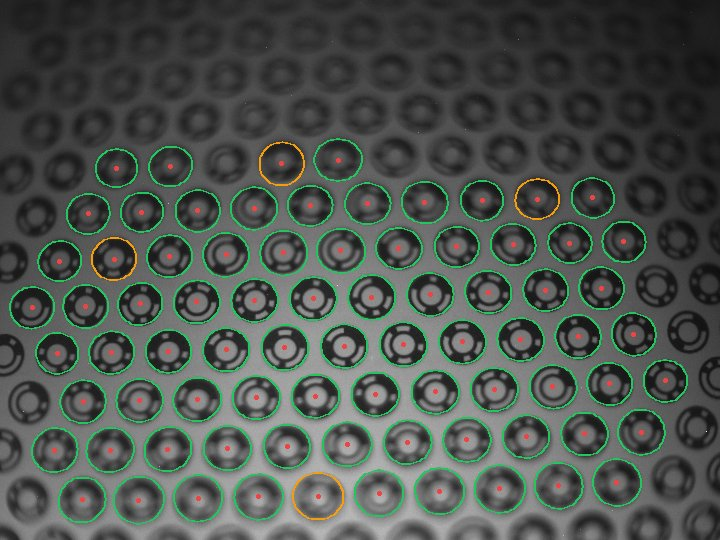
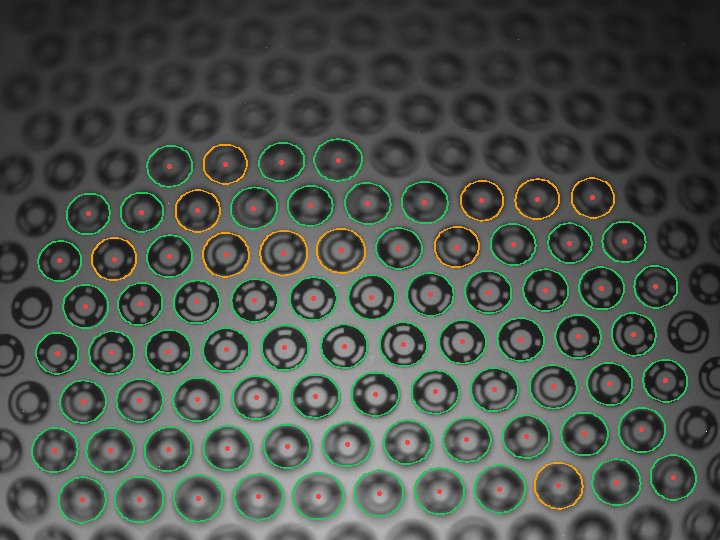
perf(proposal): radsym 0.4.1 (blur + unsafe-opt); re-measure; codex fixes
radsym 0.4.1 vectorizes the separable Gaussian blur — the dominant proposal-stage
cost — and adds an opt-in `unsafe-opt` bounds-check elision for the voting scatter
loops. Both are bit-identical output, so detection accuracy is unchanged while the
`proposal_*` micro-benchmarks drop ~23%. `unsafe-opt` is enabled at the workspace
dependency (release builds get the win; debug/test builds keep the bounds asserts).

Evaluated radsym 0.4.1's new `thin_gradient` (gradient-direction NMS): a controlled
criterion A/B (same thermal state, p<0.05) shows it is a net ~14% proposal-stage
*regression* on the fused-RSD path — the single shared blur already removed the
pixel-count bottleneck thinning targeted — with no accuracy gain, so it is
deliberately not enabled (documented in proposal/mod.rs and the edge-thinning doc).

Re-measured every performance figure (live dashboard + analysis/handoff docs) on the
0.4.1 backend. Regression gate passes unchanged: reference/distortion/blur3/rect all
within baselines, maintainability OK.

Tooling + docs staleness sweep:
- Fix tools/gen_pages_perf.py: wire the real-capture target and use the ringgrid-dev
  binary that actually carries `detect`/`bench` (the published `ringgrid` dropped them).
- Fix CLI drift in docs/comments: `gen-target`, `bench`, `--calibration`,
  `--circle-refine-method`, `--marker-diameter-min/-max` belong to `ringgrid-dev`, not
  the published `ringgrid`; replace the nonexistent `--no-refine` with
[…]

diff --git a/.github/pages/performance/index.html b/.github/pages/performance/index.html
@@ -83,7 +83,7 @@
   <div class="chips" id="chips"></div>
 
   <h2>Per-image stage breakdown</h2>
-  <div class="desc">Per-stage median wall-clock from <code>ringgrid bench</code>, which runs the <b>complete</b>
+  <div class="desc">Per-stage median wall-clock from <code>ringgrid-dev bench</code>, which runs the <b>complete</b>
     single-pass detector on each public image. Proposal scales with image area; fit + decode scales with marker
     count; finalize covers the board-level reasoning — homography RANSAC, hex-neighbor ID consensus, and completion
     of markers missing from the first pass.</div>

diff --git a/tools/gen_pages_perf.py b/tools/gen_pages_perf.py
@@ -6,10 +6,10 @@ This is the *performance test* behind the GitHub Pages performance dashboard
 **varied** scenes — a real capture, a sparse and a dense coded hex board, and a
 plain rect board — it measures:
 
-  * **Detection result + overlay** — one ``ringgrid detect`` run per scene
+  * **Detection result + overlay** — one ``ringgrid-dev detect`` run per scene
     supplies the marker count and a rendered detection overlay (so the page
     shows *what was actually detected*, not just the input).
-  * **Timing** — the ``ringgrid bench`` subcommand: single-pass detection with
+  * **Timing** — the ``ringgrid-dev bench`` subcommand: single-pass detection with
     warmup + repeats, median per stage (proposal / fit+decode / finalize) and
     end-to-end wall-clock.
   * **Accuracy** — the synthetic reference benchmark
@@ -40,7 +40,7 @@ from PIL import Image, ImageDraw
 REPO_ROOT = Path(__file__).resolve().parent.parent
 DEFAULT_OUT = REPO_ROOT / ".github/pages/performance/data.json"
 DEFAULT_IMG_DIR = REPO_ROOT / ".github/pages/performance/img"
-RELEASE_BIN = REPO_ROOT / "target/release/ringgrid"
+RELEASE_BIN = REPO_ROOT / "target/release/ringgrid-dev"
 REFERENCE_OUT_DIR = REPO_ROOT / "tools/out/reference_benchmark_post_pipeline"
 SCENES_DIR = REPO_ROOT / "tools/out/perf_scenes"
 PYTHON = sys.executable
@@ -57,7 +57,7 @@ SCENES = [
         "label": "Coded hex — real capture",
         "kind": "real",
         "image": "testdata/target_3_split_00.png",
-        "target": None,
+        "target": "testdata/board_ringgrid.json",
         "marker_diameter": None,
         "gen": None,
         "note": "Dense hex lattice photographed in the lab; decoded to absolute IDs.",
@@ -140,7 +140,8 @@ def today() -> str:
 def generate_scene(scene: dict, reuse: bool) -> tuple[Path, Path | None]:
     """Return (image_path, target_spec_path) for a scene, generating if needed."""
     if scene["gen"] is None:
-        return REPO_ROOT / scene["image"], None
+        target = REPO_ROOT / scene["target"] if scene.get("target") else None
+        return REPO_ROOT / scene["image"], target
 
     kind, params = scene["gen"]
     out_dir = SCENES_DIR / scene["key"]

diff --git a/crates/ringgrid/src/proposal/mod.rs b/crates/ringgrid/src/proposal/mod.rs
@@ -141,6 +141,13 @@ fn compute_via_radsym(
         }
     };
 
+    // Note: radsym 0.4.1 offers `thin_gradient` (Canny-style gradient-direction
+    // NMS before voting). Measured on this fused-RSD path it is a net ~14 %
+    // proposal-stage *regression* with no accuracy gain — the fused single-blur
+    // voting is no longer pixel-count-dominated, so the extra full-image thinning
+    // pass costs more than the voting pixels it removes. Deliberately not used;
+    // see docs/radsym-edge-thinning-request.md for the A/B evidence.
+
     // Translate relative gradient threshold to absolute
     let max_mag = gradient.max_magnitude();
     if max_mag < 1e-6 {

diff --git a/crates/ringgrid-cli/src/main.rs b/crates/ringgrid-cli/src/main.rs
@@ -316,8 +316,8 @@ struct CliGenFromSpecArgs {
 
 #[derive(Debug, Clone, Args)]
 struct CliDetectArgs {
-    /// Path to a board layout JSON file (target specification).
-    /// When omitted, uses the built-in default board layout.
+    /// Path to a target-layout JSON file (`TargetLayout` specification).
+    /// When omitted, uses the built-in default target layout.
     #[arg(long)]
     target: Option<PathBuf>,
 
@@ -1545,7 +1545,7 @@ fn run_bench(args: &CliBenchArgs) -> CliResult<()> {
 
     let report = BenchReport {
         repeats,
-        source: format!("ringgrid bench --repeats {repeats}"),
+        source: format!("ringgrid-dev bench --repeats {repeats}"),
         images,
     };
     let json = serde_json::to_string_pretty(&report)?;

diff --git a/tools/run_rtv3d_eval.py b/tools/run_rtv3d_eval.py
@@ -77,8 +77,8 @@ def parse_args() -> argparse.Namespace:
     p = argparse.ArgumentParser(description=__doc__, formatter_class=argparse.RawDescriptionHelpFormatter)
     p.add_argument("--data-dir", type=Path, default=Path("data/rtv3d"),
                    help="Directory containing rtv3d strip images (default: data/rtv3d)")
-    p.add_argument("--binary", type=Path, default=Path("target/release/ringgrid"),
-                   help="Path to ringgrid CLI binary (default: target/release/ringgrid)")
+    p.add_argument("--binary", type=Path, default=Path("target/release/ringgrid-dev"),
+                   help="Path to ringgrid CLI binary (default: target/release/ringgrid-dev)")
     p.add_argument("--target", type=Path, default=None,
                    help="Board layout JSON (optional, uses built-in default when omitted)")
     p.add_argument("--out", type=Path, default=Path("tools/out/rtv3d_eval"),

diff --git a/tools/run_reference_benchmark.py b/tools/run_reference_benchmark.py
@@ -85,7 +85,7 @@ def render_summary(summary_modes: dict[str, dict], summary_path: Path) -> None:
 
 
 def find_ringgrid_binary() -> str | None:
-    for candidate in ("target/release/ringgrid", "target/debug/ringgrid"):
+    for candidate in ("target/release/ringgrid-dev", "target/debug/ringgrid-dev", "target/release/ringgrid", "target/debug/ringgrid"):
         if os.path.isfile(candidate):
             return candidate
     return None

diff --git a/tools/run_synth_eval.py b/tools/run_synth_eval.py
@@ -48,6 +48,8 @@ def camera_cli_args_from_gt(gt_data: dict) -> list[str]:
 def find_ringgrid_binary() -> str:
     """Find the ringgrid binary."""
     candidates = [
+        "target/release/ringgrid-dev",
+        "target/debug/ringgrid-dev",
         "target/release/ringgrid",
         "target/debug/ringgrid",
     ]

diff --git a/docs/radsym-edge-thinning-request.md b/docs/radsym-edge-thinning-request.md
@@ -1,15 +1,24 @@
 # Handoff: Edge-Thinning (Gradient-Direction NMS) for radsym RSD
 
+> **Status: delivered, not adopted.** radsym **0.4.1** shipped this request as
+> option 2 below — the standalone
+> `thin_gradient(&GradientField) -> Result<GradientField>` transform. ringgrid
+> evaluated it and measured a **net ~14 % proposal-stage regression with no
+> accuracy gain**, so it is deliberately **not** enabled (see *Outcome* below).
+> This was always separate from the Gaussian-blur cost, which was the dominant
+> proposal bottleneck and *was* resolved in 0.4.1 (vectorized separable blur +
+> opt-in `unsafe-opt`).
+
 ## Problem
 
-The proposal stage (radsym RSD voting) is the dominant cost in ringgrid
-detection — **~50–54 % of end-to-end time** (per-stage `StageTimings`, Apple
-M4 Pro, release build):
+The proposal stage (radsym RSD voting) is the largest single cost in ringgrid
+detection — **~44–52 % of end-to-end time** on the coded reference scenes
+(per-stage `StageTimings`, Apple M4 Pro, radsym 0.4.1, median of 15):
 
 | image | proposal | total | proposal share |
 |---|---|---|---|
-| real 720×540, 78 markers | 15.2 ms | 28.5 ms | **53 %** |
-| synthetic 1280×960, 203 markers | 32 ms | 65.8 ms | **49 %** |
+| real 720×540, 80 markers | 14.7 ms | 28.4 ms | **52 %** |
+| synthetic 1280×960, 203 markers | 28.3 ms | 64.0 ms | **44 %** |
 
 Every above-threshold gradient pixel votes. Real edges are multi-pixel-wide
 bands (3–5 px after blur), so the same boundary votes several times. A
@@ -25,29 +34,39 @@ the accuracy gate as a default. The larger, orthogonal, *accuracy-preserving*
 win — thinning the *gradient* axis (fewer voting pixels, same radii) — is only
 reachable inside radsym.
 
-## Why ringgrid cannot do this today
+## Outcome (2026-07-05, radsym 0.4.1)
 
-Edge-thinning must run on the gradient field that RSD votes from. As of the
-current dependency (**radsym 0.4**, verified against
-`crates/radsym/src/propose/rsd.rs` and `crates/radsym/src/core/gradient.rs`)
-there is still no way to inject a thinned gradient:
+radsym 0.4.1 delivered **option 2** below: `thin_gradient`, a standalone
+gradient-direction NMS transform (4-direction quantization, integer `mag²`
+comparisons). ringgrid wired it into `proposal/mod.rs`
+(`scharr_gradient → thin_gradient → rsd_response_fused`) and benchmarked it.
 
-- `RsdConfig` (`radii`, `gradient_threshold`, `polarity`, `smoothing_factor`)
-  has **no edge-thinning / NMS knob**.
-- `rsd_response_fused(gradient: &GradientField, config: &RsdConfig)` accepts only
-  a `&GradientField`.
-- `GradientField`'s `gx` / `gy` are private; the only accessors (`gx()`, `gy()`)
-  return **read-only** views, and there is **no public constructor** (only
-  `sobel_gradient` / `scharr_gradient`, which build from an image). So a caller
-  cannot build a `GradientField` from externally-thinned components and pass it
-  back in.
+The premise did **not** hold on the current fused-RSD path. The historical
+60–80 % voting reduction was measured against ringgrid's *pre-radsym*
+per-radius design, which re-blurred once per radius and was pixel-count
+dominated. radsym's fused RSD already does **one** shared blur, so the voting
+loop is no longer the bottleneck thinning targets — and `thin_gradient` adds a
+full-image pass whose cost exceeds the voting pixels it removes.
 
-The net effect: the documented 60–80 % voting reduction cannot be applied from
-ringgrid without a new radsym API (target: **radsym 0.5**).
+Controlled criterion A/B (same machine + thermal state, 3 s warm-up, 100
+samples, `p < 0.05`):
 
-## Proposed solution (any one of these unblocks ringgrid)
+| benchmark | thinning OFF | thinning ON | Δ |
+|---|---:|---:|---:|
+| `proposal_1280x1024` | 24.1 ms | 28.0 ms | **+14 % (slower)** |
+| `proposal_1920x1080` | 36.9 ms | 42.9 ms | **+14 % (slower)** |
 
-In rough order of preference:
+Accuracy is unchanged either way (synthetic reference recall/precision `1.000`,
+mean centre error ≈ 0.081/0.084 px). Net: a ~14 % proposal-stage cost for no
+accuracy benefit, so ringgrid **does not** call `thin_gradient`. `proposal/mod.rs`
+carries a comment recording this. Should a future radsym make thinning cheaper
+than the voting it saves (e.g. fused into the gradient or vote pass), re-run the
+A/B and revisit.
+
+## Historical: proposed solutions
+
+The request offered three shapes; radsym shipped **#2** (`thin_gradient`) in
+0.4.1. Kept here as the original handoff record.
 
 1. **A thinning knob on `RsdConfig`.** Add an opt-in field, e.g.
    `pub edge_thinning: bool` (or an enum for the quantization scheme), so

diff --git a/docs/proposal-performance-analysis.md b/docs/proposal-performance-analysis.md
@@ -1,7 +1,7 @@
 # Proposal Performance And Alternatives
 
 This note captures the current performance shape of the proposal stage in
-`crates/ringgrid/src/proposal/` on the radsym 0.4 backend, the reasons it
+`crates/ringgrid/src/proposal/` on the radsym 0.4.1 backend, the reasons it
 costs what it costs, the status of the three performance levers under
 consideration (direct `u8` gradients, per-proposal scale narrowing, and a
 coarse-to-fine pyramid), and the most credible remaining alternatives.
@@ -18,11 +18,15 @@ this note rather than duplicated here:
   accumulator once per radius and was 5.7–10x slower than ringgrid's old
   internal implementation; fusing radii into one accumulator + one blur
   closed that gap).
-- `docs/radsym-edge-thinning-request.md` — the still-open ask (now tracked
-  upstream as **radsym issue #16**, filed 2026-07-03) to thin gradient bands
-  to single-pixel ridges before voting, which historically cut strong-edge
-  count 60–80 % in ringgrid's pre-radsym implementation. This capability was
-  lost in the migration to radsym and has not been restored.
+- `docs/radsym-edge-thinning-request.md` — the ask (radsym issue #16) to thin
+  gradient bands to single-pixel ridges before voting, which historically cut
+  strong-edge count 60–80 % in ringgrid's *pre-radsym* implementation.
+  **Delivered but not adopted:** radsym **0.4.1** shipped it as
+  `thin_gradient`, but a controlled A/B measured it a net ~14 % proposal-stage
+  regression on the fused-RSD path (the single shared blur already removed the
+  pixel-count bottleneck thinning targeted), so ringgrid does not enable it.
+  This is **separate** from the Gaussian-blur cost, which *was* the dominant
+  proposal bottleneck and *was* addressed in **radsym 0.4.1** (see below).
 
 ## Current Snapshot
 
@@ -38,33 +42,36 @@ A second, real-image proposal benchmark lives in a separate bench binary:
 cargo bench -p ringgrid --bench detect_fixture propose_ -- --warm-up-time 2 --measurement-time 5 --sample-size 30
 ```
 
-Fresh numbers on `feat/algo-soundness-perf` (2026-07-04, Criterion median
-estimate `[low, median, high]` of the confidence interval):
+Fresh numbers on the radsym **0.4.1** backend (2026-07-05, Apple M4 Pro,
+rustc 1.95, Criterion median estimate `[low, median, high]` of the
+confidence interval):
 
 | Benchmark | Image | Median | 95% CI |
 |---|---|---:|---:|
-| `proposal_1280x1024` | synthetic, 1280×1024 | `29.909 ms` | `[29.829, 29.997] ms` |
-| `proposal_1920x1080` | synthetic, 1920×1080 | `45.040 ms` | `[44.967, 45.122] ms` |
-| `propose_target_3_split_00` | real fixture, 720×540, 78 markers | `14.877 ms` | `[14.850, 14.901] ms` |
+| `proposal_1280x1024` | synthetic, 1280×1024 | `22.910 ms` | `[22.820, 23.007] ms` |
+| `proposal_1920x1080` | synthetic, 1920×1080 | `35.044 ms` | `[34.904, 35.191] ms` |
+| `propose_target_3_split_00` | real fixture, 720×540, 78 markers | `14.766 ms` | `[14.740, 14.792] ms` |
 
 The two synthetic fixtures use a fixed `ProposalConfig` (`r_min=4, r_max=18,
 radius_step=1` → 15 voting radii) over a 14×10 ring grid regardless of image
 size, so the 1920×1080 fixture has both more pixels *and* larger rings (more
 edge pixels) than the 1280×1024 one; area grows ~1.58x (1.31 MP → 2.07 MP)
-and measured time grows ~1.51x (29.9 ms → 45.0 ms), consistent with per-pixel
+and measured time grows ~1.53x (22.9 ms → 35.0 ms), consistent with per-pixel
 gradient and voting cost dominating.
 
-These numbers are **not directly comparable** to the `37.199 ms` /
-`53.121 ms` figures previously recorded in this document — those were
-measured against the pre-radsym internal implementation (with edge-thinning
-enabled) before the migration described in
-`docs/radsym-multiradius-handoff.md`. For an apples-to-apples before/after
-comparison of that migration, see the tables in that handoff doc and in
-`docs/reviews/2026-06-performance-profiling.md` (which recorded
-`32 ms` / `48 ms` for the same two synthetic benchmarks on 2026-06-25 —
-in the same range as the numbers above, modulo normal run-to-run variance).
+The synthetic figures dropped **~23 %** from the radsym 0.4.0 backend
+(`29.909 ms` / `45.040 ms`, recorded 2026-07-04): radsym 0.4.1 vectorized the
+separable Gaussian blur's vertical pass into cache-line-contiguous 16-column
+strips (bit-identical output) and added an opt-in `unsafe-opt` feature —
+enabled here — that elides bounds checks in the voting scatter loops. Detection
+accuracy is unchanged (identical numerical output). These numbers are **not
+directly comparable** to the `37.199 ms` / `53.121 ms` figures previously
+recorded against the pre-radsym internal implementation (with edge-thinning
+enabled); for the before/after of that migration see
+`docs/radsym-multiradius-handoff.md` and
+`docs/reviews/2026-06-performance-profiling.md`.
 
-## Current Architecture (radsym 0.4, fused RSD)
+## Current Architecture (radsym 0.4.1, fused RSD)
 
 The stage does four things, none of them optional:
 
@@ -209,7 +216,7 @@ decomposes them into `ScaleTiers` (several narrow-range full-resolution
 proposal passes, each with a small `radii_count`) or a single
 `ProposalDownscale` factor (one reduced-resolution pass). Given the measured
 numbers above — a synthetic 1280×1024 pass with a 15-radius span costs
-~30 ms end-to-end, and `radius_step` already offers an accuracy-for-speed
+~23 ms end-to-end, and `radius_step` already offers an accuracy-for-speed
 knob on that same axis — a full pyramid's incremental win over the existing
 `ScaleTiers` + `ProposalDownscale` combination is not demonstrated. It stays
 a documented non-goal unless a concrete scenario surfaces where those two

diff --git a/docs/reviews/2026-06-performance-profiling.md b/docs/reviews/2026-06-performance-profiling.md
@@ -1,8 +1,27 @@
 # ringgrid performance profiling — 2026-06-25
 
+> **Superseded (2026-07-05, radsym 0.4.1).** radsym 0.4.1 vectorized the
+> separable Gaussian blur (bit-identical output) and added the opt-in
+> `unsafe-opt` bounds-check elision — now enabled — cutting proposal-stage cost
+> **~23 %** with unchanged detection accuracy. The re-measured stage split
+> (Apple M4 Pro, rustc 1.95, median of 15) is:
+>
+> | image | proposal | fit + decode | finalize | total |
+> |---|---|---|---|---|
+> | real 720×540, 80 markers | 14.7 ms (**52 %**) | 9.1 ms (32 %) | 4.6 ms (16 %) | 28.4 ms |
+> | synthetic 1280×960, 203 markers | 28.3 ms (**44 %**) | 26.2 ms (41 %) | 9.4 ms (15 %) | 64.0 ms |
+>
+> Updated Criterion primitives: `proposal_1280x1024` / `proposal_1920x1080`
+> **22.9 / 35.0 ms**, `propose_target_3_split_00` **14.8 ms**,
+> `detect_target_3_split_00` **28.9 ms**. The proposal stage is still the
+> largest single stage but no longer clearly dominant on dense boards. The
+> June-25 numbers below are kept as the historical record; the
+> [live dashboard](https://vitalyvorobyev.github.io/ringgrid/performance/) and
+> `docs/proposal-performance-analysis.md` are the current reference.
+
 Method: Criterion micro-benchmarks (`crates/ringgrid/benches/`), the per-stage
-`StageTimings` now exposed on the diagnostics channel, and the `ringgrid bench`
-subcommand (median of N repeats). Machine: Apple M4 Pro, release build.
+`StageTimings` now exposed on the diagnostics channel, and the `ringgrid-dev
+bench` subcommand (median of N repeats). Machine: Apple M4 Pro, release build.
 
 > Headline: **the proposal stage (radsym RSD voting) is ~50–54 % of detection
 > time** and is the only real bottleneck; per-marker primitives are already

diff --git a/book/src/targets/target-json-v5.md b/book/src/targets/target-json-v5.md
@@ -141,30 +141,32 @@ schema tag is rejected with `TargetValidationError::UnsupportedSchema`.
 
 ## Generating target JSON from the CLI
 
-`gen-target` writes `target_spec.json` (v5) alongside printable SVG/PNG. It is a
-subcommand family:
+The maintainer-only `ringgrid-dev gen-target` writes `target_spec.json` (v5)
+alongside printable SVG/PNG. (The published `ringgrid` CLI generates targets
+with the recipe-driven `ringgrid gen <recipe>` instead — see
+[Target Generation](../target-generation.md).) It is a subcommand family:
 
 ```bash
 # Classic hex coded target
-ringgrid gen-target hex \
+ringgrid-dev gen-target hex \
   --pitch_mm 8 --rows 15 --long_row_cols 14 \
   --marker_outer_radius_mm 4.8 --marker_inner_radius_mm 3.2 \
   --marker_ring_width_mm 1.152 \
   --out_dir tools/out/target
 
 # Rect plain target with origin dots
-ringgrid gen-target rect \
+ringgrid-dev gen-target rect \
   --pitch_mm 14 --rows 24 --cols 24 \
   --marker_outer_radius_mm 5.6 --marker_inner_radius_mm 2.8 \
   --dot_radius_mm 1.4 --dot_mm 161,161 --dot_mm 147,161 --dot_mm 161,175 \
   --out_dir tools/out/target
 
 # A built-in preset
-ringgrid gen-target preset default-hex --out_dir tools/out/target
-ringgrid gen-target preset rect24x24   --out_dir tools/out/target
+ringgrid-dev gen-target preset default-hex --out_dir tools/out/target
+ringgrid-dev gen-target preset rect24x24   --out_dir tools/out/target
 
 # Re-render (and upgrade) an existing spec, v5 or legacy v4
-ringgrid gen-target from-spec --spec path/to/target_spec.json --out_dir tools/out/target
+ringgrid-dev gen-target from-spec --spec path/to/target_spec.json --out_dir tools/out/target
 ```
 
 See [Target Generation](../target-generation.md) for the full flag reference and

diff --git a/crates/ringgrid-c/README.md b/crates/ringgrid-c/README.md
@@ -52,8 +52,13 @@ Introspection: `ringgrid_version`, `ringgrid_abi_version`,
 
 ### vcpkg (overlay port)
 
+Until ringgrid is in the upstream vcpkg registry, install from a local checkout
+by pointing the port at this repository with `RINGGRID_SOURCE_DIR` (no published
+tag or archive hash required):
+
 ```bash
-vcpkg install ringgrid --overlay-ports=crates/ringgrid-c/vcpkg
+RINGGRID_SOURCE_DIR="$(git rev-parse --show-toplevel)" \
+  vcpkg install ringgrid --overlay-ports=crates/ringgrid-c/vcpkg
 ```
 
 Then, in `CMakeLists.txt`:
@@ -63,9 +68,12 @@ find_package(ringgrid CONFIG REQUIRED)
 target_link_libraries(app PRIVATE ringgrid::ringgrid)
 ```
 
-Building the port requires a Rust toolchain (`cargo`) on `PATH`. The overlay
-port is verified in CI; upstream vcpkg-registry submission is tracked
-separately.
+Building the port requires a Rust toolchain (`cargo`) on `PATH`. Without
+`RINGGRID_SOURCE_DIR`, the port instead fetches the released source tarball for
+tag `v<version>` from GitHub — that path activates once a release is tagged and
+its real `SHA512` is committed into `vcpkg/portfile.cmake` (a placeholder until
+then). The overlay port is verified in CI (which sets `RINGGRID_SOURCE_DIR`);
+upstream vcpkg-registry submission is tracked separately.
 
 ### CMake, from source
 